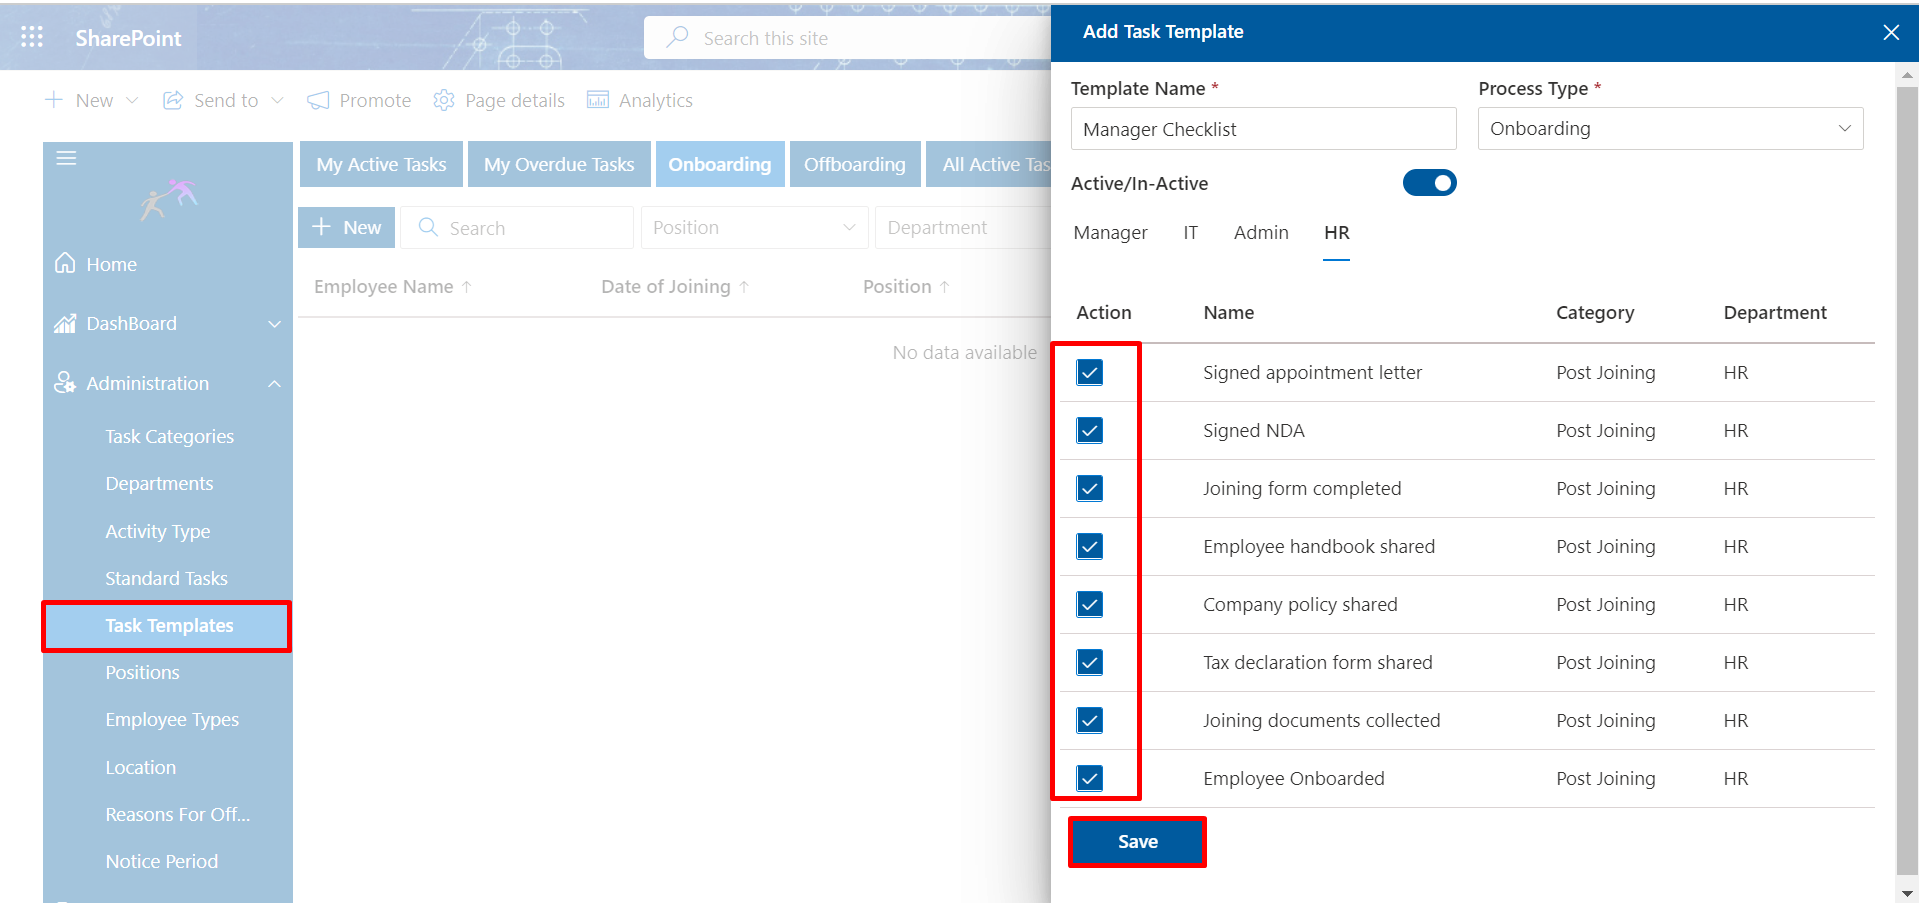
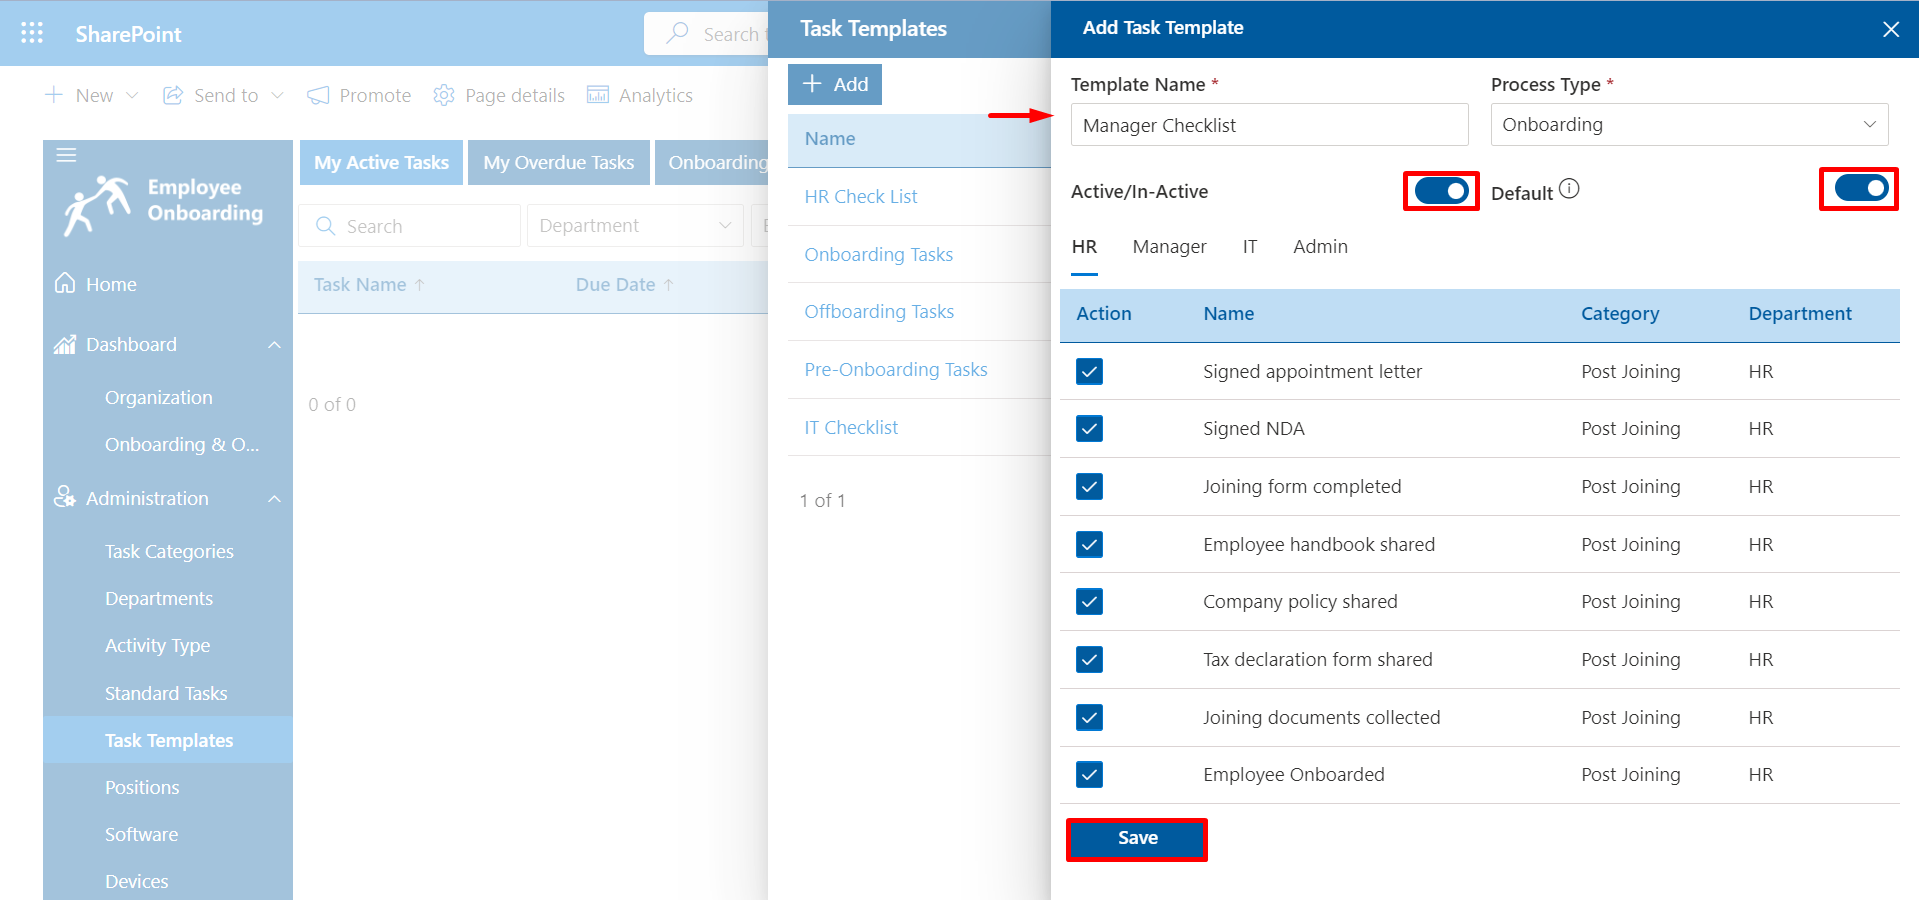
update

diff --git a/online-asset-management-application/classic/admin/settings/index.html b/online-asset-management-application/classic/admin/settings/index.html
@@ -475,7 +475,7 @@
                                     <br>
                                     <li>
                                         <p>
-                                            <b>MS Intune Filters:</b>By using these filters only filtered data will be pulled from MS-intunes, also you can exclude VMs by turning on the toggle.</b>
+                                            <b>MS Intune Filters:</b>By using these filters only filtered data will be pulled from MS-intunes, filter by platform , filter compliance by status, filter ownership by type, also exclude VM's by enabling the toogle.</b>
                                         </p>
                                         <div><img src="msintunefilter.png" onclick="openModal( 'msintunefilter.png') " alt="MS Intune" width="100% " height="auto"></div>
                                     </li>

diff --git a/sharepoint-employee-onboarding/modern/admin/set-up-of-application/administration/index.html b/sharepoint-employee-onboarding/modern/admin/set-up-of-application/administration/index.html
@@ -421,6 +421,14 @@
                     </div>
                   </li>
                   <li>
+                    Enable the <b>Default</b> toggle.
+                    <div class="notices note">
+                      <div class="paragraph">
+                        <p>You must enable the <b>Default</b> toggle, then it will dispaly the task templates by default in their respective componenets.</p>
+                      </div>
+                    </div>
+                  </li>
+                  <li>
                     Select the admin which you can update from <b>Activity type</b>.Select the actions from the list by
                     checking the checkbox as per you requirement.
                   </li>
